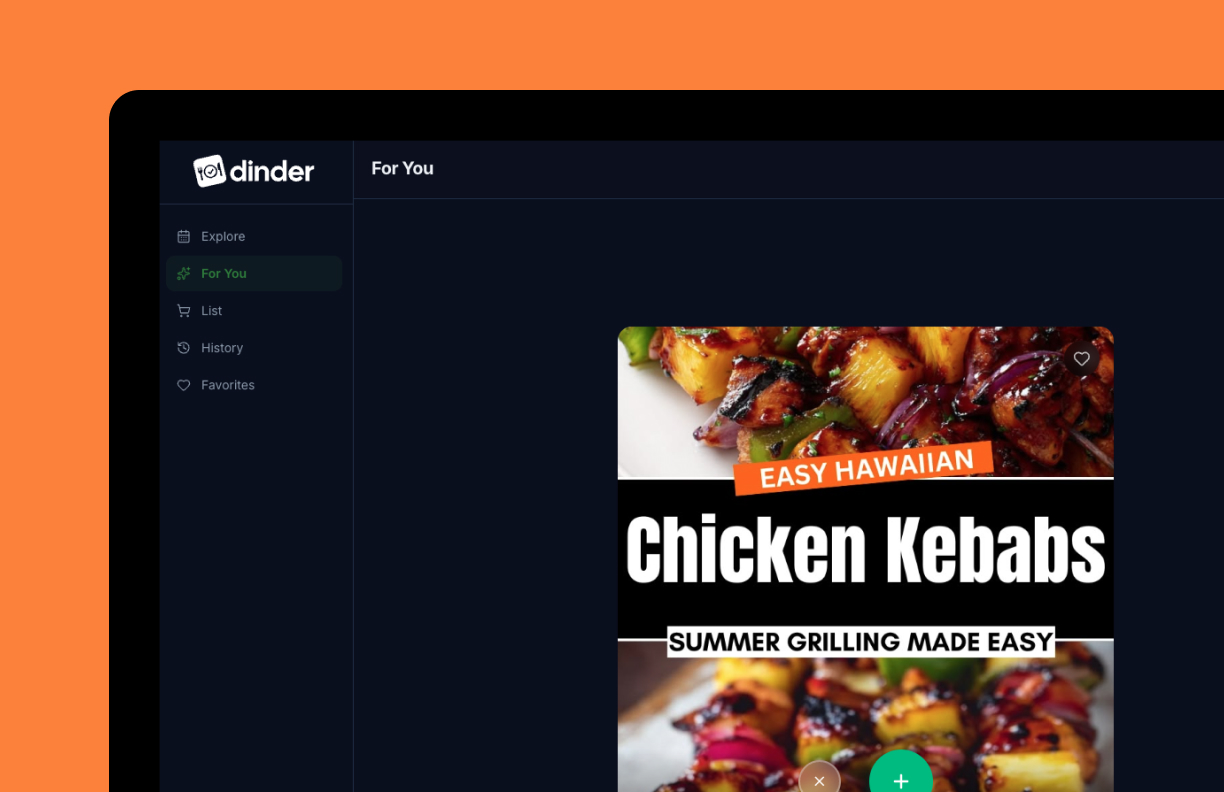
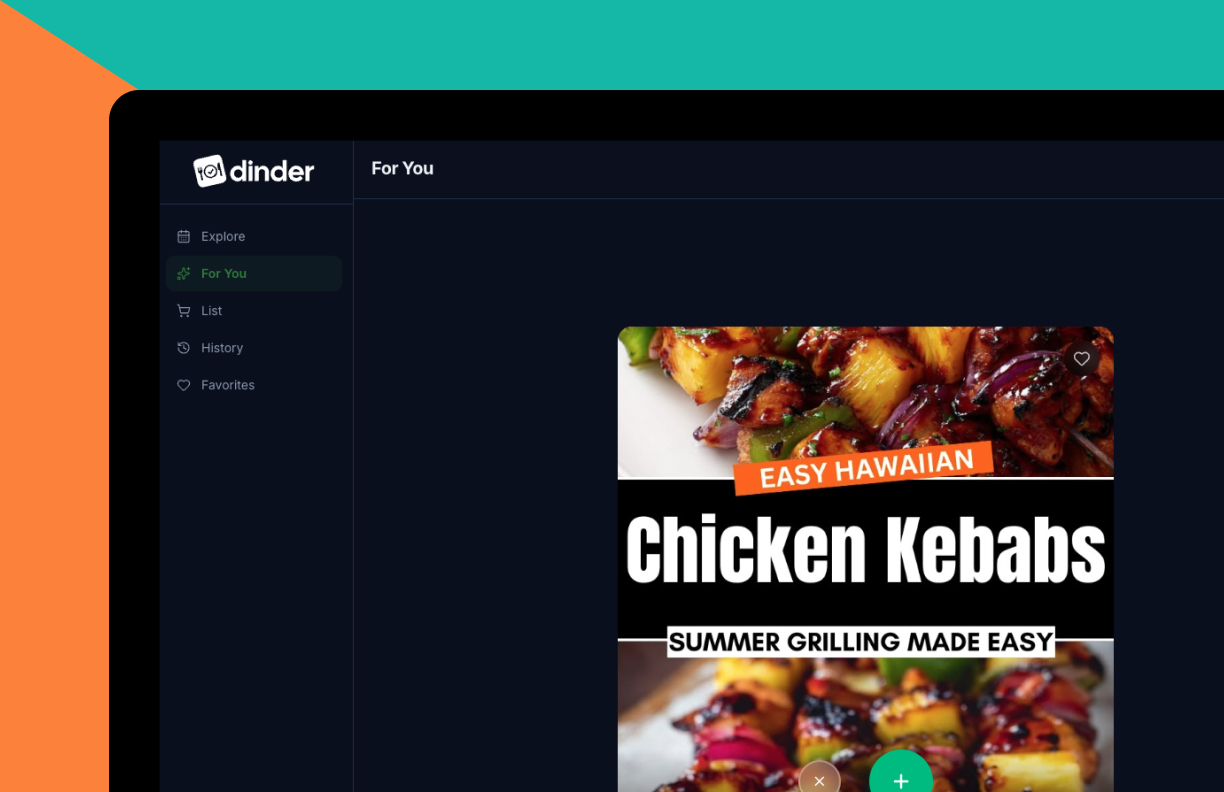
Rebuild AI-Ready Backlog case study to match High Risk Queue structure
Replaces the old Understand/Simplify/Align/Validate layout with the
collapsible Strategy/Research/Design/Outcome pattern used elsewhere.

Changed region(s): [[0.0, 0.0, 1.0, 0.1212]]

diff --git a/ai-ready-backlog.html b/ai-ready-backlog.html
@@ -33,7 +33,7 @@
 	<main>
 		<section class="hero">
 		<figure>
-			<img alt="Log In Issues" src="./img/hero/ai-ready.jpg"/>
+			<img alt="AI-Ready Backlog" src="./img/hero/ai-ready.jpg"/>
 		</figure>
 		<div class="bluf">
 			<h1>AI-Ready Backlog</h1>
@@ -49,122 +49,128 @@
 				</dl>
 			</div>
 		</div>
-	</section>
+		</section>
 
-	<section class="cases halfPad_noTop">
-	<div>
-		<h4>The Challenge</h4>
-		<p>I was serving as Product Owner, Scrum Master, and UX Lead on a modular frontend migration&hellip; replacing Ember with React while keeping the Rails backend intact&hellip; and the 3-point story limit we&rsquo;d adopted to improve velocity was starting to feel like the wrong constraint entirely. Not because stories are hard to write&hellip; but because the team was moving toward AI-assisted development, and I started to question whether traditional stories were even the right unit of work anymore.</p>
-		<p>The industry was shifting. I decided to shift with it.</p>
-		<h4>Role</h4>
-		<p>As Product Owner, I was responsible for the backlog and delivery structure across multiple modules. I took it upon myself to research where AI-first product teams were heading&hellip; and redesign how we documented product intent.</p>
-	</div>
-	</section>
+		<section class="case-challenge">
+			<h3>The Challenge</h3>
+			<p>As Director of Product &amp; UX, I was responsible for the backlog and delivery structure across multiple modules. The 3-point story limit we&rsquo;d adopted to improve velocity was starting to feel like the wrong constraint entirely. Not because stories are hard to write, but because the team was moving toward AI-assisted development, and I started to question whether traditional stories were even the right unit of work anymore.</p>
+		</section>
 
-	<a href="#" class="top_fab">
-	  <i class="material-icons">keyboard_arrow_up</i>
-	</a>
+			<a href="#" class="top_fab">
+			  <i class="material-icons">keyboard_arrow_up</i>
+			</a>
 
-	<section class="primary eighthPad">
-		<h2 class="ccicon"><i>Un</i> Understand</h2>
-	</section>
+		<section class="case-body">
 
-	<section class="white cases halfPad">
-	<div>
-		<h4>The Problem with Stories</h4>
-		<p>User stories are written for human developers&hellip; and that&rsquo;s exactly the problem. The format is built around intent and narrative, not system context. When a feature got too complex, the answer was always the same, break it into smaller stories. That constraint was supposed to improve velocity. In practice, it was just moving the complexity around.</p>
-		<p>AI doesn&rsquo;t need narrative framing. It needs boundaries, rules, constraints, dependencies, and edge cases. Feed it a backlog of stories and you get noise. Feed it structured context and you get something it can actually work with.</p>
-		<h4>Getting Ahead of It</h4>
-		<p>I researched what high-performing AI teams were doing instead. The pattern was consistent&hellip; outcome-driven development, capability-based backlogs, and product briefs over story queues. The teams shipping the fastest weren&rsquo;t writing more stories&hellip; they were writing better context.</p>
-	</div>
-	</section>
+			<article class="collapsible collapsible-strategy is-expanded">
+				<button type="button" class="collapsible-toggle" aria-expanded="true" aria-controls="panel-strategy" id="tab-strategy">
+					<span>Strategy</span>
+					<i class="material-icons collapsible-chevron" aria-hidden="true">chevron_right</i>
+				</button>
+				<div id="panel-strategy" role="region" aria-labelledby="tab-strategy">
+					<div class="panel-text">
+					<h3>The Wrong Constraint</h3>
+					<p>Nobody asked me to fix this. I just saw it coming and decided to get ahead of it.</p>
+					</div>
 
-	<section class="primary eighthPad">
-		<h2 class="ccicon"><i>Si</i> Simplify</h2>
-	</section>
+					<div class="panel-text">
+					<h3>Two Problems, One Solution</h3>
+					<p>The backlog wasn&rsquo;t the only gap I was looking at. Captivated had a documentation problem too. Readme files were sparse, code comments were inconsistent, and onboarding new developers meant a lot of tribal knowledge transfer that shouldn&rsquo;t have been necessary. I didn&rsquo;t set out to solve both problems at once, but the more I thought about what good AI-ready documentation looked like, the more I realized the same structured format could feed both. A Capability Brief written well enough for an AI coding tool to build from is also written well enough for an AI to generate readme files and code comments from. One document, two problems addressed.</p>
+					</div>
 
-	<section class="reversed cases halfPad">
-	<div>
-		<h4>The Capability Brief</h4>
-		<p>That&rsquo;s when I designed the Capability Brief. Instead of asking &ldquo;what stories do we need?&rdquo; I started asking &ldquo;what does this part of the system need to be responsible for?&rdquo; That reframe changed everything.</p>
-		<p>Each brief covers a single system capability and follows a consistent structure:</p>
-			<ul>
-				<li>Problem &mdash; what&rsquo;s broken or missing, and why it matters</li>
-				<li>Outcome &mdash; what the system must be able to do</li>
-				<li>Users &mdash; who&rsquo;s affected and how</li>
-				<li>Functional Rules &mdash; explicit behaviors the system must honor</li>
-				<li>Edge Cases &mdash; failure states, race conditions, unexpected inputs</li>
-				<li>Constraints &mdash; what must not break, what&rsquo;s out of scope</li>
-				<li>AI Implementation Context &mdash; architecture, dependencies, data model, key rules</li>
-				<li>Delivery Mapping &mdash; epics and vertical slices</li>
-			</ul>
-	</div>
-		<figure>
-			<img alt="The hero element open" src="./img/cases/aiready/capability-brief.png" class="caseImg slide-up"/>
-			<figcaption>Capability Briefs are intended for AI, not humans</figcaption>
-		</figure>
-	<div>
-		<h4>AI Implementation Context</h4>
-		<p>The AI Implementation Context section is what makes this format different. It explicitly tells developers and AI coding tools what the system depends on, what rules are non-negotiable, and how the data model should be structured. In our case, that meant documenting the React frontend, Ant Design component library, and Rails backend as fixed constraints&hellip; so nothing got designed or generated in a vacuum. That section alone eliminated entire categories of questions before they were ever asked.</p>
-	</div>
-	</section>
+					<div class="panel-text">
+					<h3>Where These Documents Live</h3>
+					<p>I built the Capability Briefs in Confluence because that&rsquo;s where the team already worked. But even while writing them, I could see that wasn&rsquo;t the right long-term home. Documentation that developers need during a build belongs close to the code, not in a wiki they have to context-switch to reach. The right place for a Capability Brief is the repository itself, alongside the code it describes. Getting there was a later problem, but the brief format was designed with that destination in mind.</p>
+					</div>
 
-	<section class="primary eighthPad">
-		<h2 class="ccicon"><i>Al</i> Align</h2>
-	</section>
+					<div class="panel-text">
+					<h3>The Bigger Shift</h3>
+					<p>The format was also a strategic bet on where the industry was heading. AI-assisted development was moving fast. Teams that figured out how to give AI structured context were going to outpace teams still handing it a backlog of disconnected stories. I wanted Captivated to be ahead of that curve, not catching up to it.</p>
+					</div>
+				</div>
+			</article>
 
-	<section class="cases halfPad">
-	<div>
-		<h4>A New Way of Working</h4>
-		<p>I&rsquo;ll admit the format took some getting used to. But once the team was working from briefs instead of a backlog of 3-point stories, the difference was noticeable. Developer handoffs were smoother. Fewer questions came back during implementation. Edge cases that used to surface mid-sprint were already being identified.</p>
-		<h4>AI Writes the First Pass</h4>
-		<p>The bigger shift was in how the team approached AI-assisted development. With a brief in hand, the understanding became: AI writes the first pass, humans refine it. That&rsquo;s a much healthier dynamic than asking AI to interpret a list of disconnected stories.</p>
-	</div>
-	</section>
-	<section class="primary eighthPad">
-		<h2 class="ccicon"><i>Va</i> Validate</h2>
-	</section>
+			<article class="collapsible collapsible-research is-expanded">
+				<button type="button" class="collapsible-toggle" aria-expanded="true" aria-controls="panel-research" id="tab-research">
+					<span>Research</span>
+					<i class="material-icons collapsible-chevron" aria-hidden="true">chevron_right</i>
+				</button>
+				<div id="panel-research" role="region" aria-labelledby="tab-research">
+					<div class="panel-text">
+					<h3>Finding the Alternatives</h3>
+					<p>Before designing anything, I surveyed the landscape. I took the question to ChatGPT and the broader product community to understand how high-performing AI teams were approaching documentation. The pattern was consistent, outcome-driven development, capability-based backlogs, and product briefs over story queues. The teams shipping fastest weren&rsquo;t writing more stories. They were writing better context.</p>
+					<p>That research didn&rsquo;t produce a deliverable. It produced a direction.</p>
+					</div>
+				</div>
+			</article>
 
-	<section class="white cases halfPad">
-	<div>
-		<h4>The Results</h4>
-		<p>The first module, Authentication, produced 6 Capability Briefs covering</p>
-			<ul>
-				<li>Identifier-First Flow</li>
-				<li>Authorization</li>
-				<li>Session Management</li>
-				<li>SSO</li>
-				<li>MFA</li>
-				<li>Multi-Org Switching</li>
-				<li>Quick User Switching</li>
-			</ul>
-		<p>A traditional story approach for the same scope would have produced 150+ tickets, with far less coverage of edge cases, compliance constraints, and system dependencies.</p>
-	</div>
-	</section>
+			<article class="collapsible collapsible-design is-expanded">
+				<button type="button" class="collapsible-toggle" aria-expanded="true" aria-controls="panel-design" id="tab-design">
+					<span>Design</span>
+					<i class="material-icons collapsible-chevron" aria-hidden="true">chevron_right</i>
+				</button>
+				<div id="panel-design" role="region" aria-labelledby="tab-design">
+					<div class="panel-text">
+					<h3>A Different Kind of Design Problem</h3>
+					<p>The Capability Brief is a designed artifact, it just doesn&rsquo;t have a UI. The design decisions were about information architecture, document structure, and audience. The primary reader wasn&rsquo;t a human developer, it was an AI coding tool. That single constraint changed everything about how the format was built.</p>
+					<p>Writing for AI means writing without ambiguity. No implied context, no assumed knowledge, no narrative shortcuts. Every rule has to be stated explicitly. Every edge case has to be named. Every constraint has to be declared, including what&rsquo;s out of scope, because AI builds confidently in whatever direction you point it and a missing boundary is an invitation to go somewhere you didn&rsquo;t intend.</p>
+					</div>
 
-	<section class="primary eighthPad">
-		<h2>Takeaways&hellip;</h2>
-	</section>
-	
-	<section class="cases halfPad">
-	<div>
-		<p>The hard decisions got made upfront&hellip; not mid-sprint when they&rsquo;re expensive. That&rsquo;s the whole point.</p>
-		<p>I&rsquo;m convinced this is where product documentation is heading. Like everyone else, I&rsquo;m learning as I go.</p>
-	</div>
-	</section>
+					<div class="panel-text">
+					<h3>The Structure</h3>
+					<p>Each Capability Brief follows eight sections, in this order for a reason:</p>
+					<ul>
+						<li>Problem &mdash; what&rsquo;s broken or missing, and why it matters</li>
+						<li>Outcome &mdash; what the system must be able to do</li>
+						<li>Users &mdash; who&rsquo;s affected and how</li>
+						<li>Functional Rules &mdash; explicit behaviors the system must honor</li>
+						<li>Edge Cases &mdash; failure states, race conditions, unexpected inputs</li>
+						<li>Constraints &mdash; what must not break, what&rsquo;s explicitly out of scope</li>
+						<li>AI Implementation Context &mdash; architecture, dependencies, data model, key rules</li>
+						<li>Delivery Mapping &mdash; epics and vertical slices</li>
+					</ul>
+					<p>The AI Implementation Context section is what makes this format different from anything that came before it. It explicitly tells developers and AI coding tools what the system depends on, what rules are non-negotiable, and how the data model should be structured. In Captivated&rsquo;s case, that meant documenting the React frontend, Ant Design component library, and Rails backend as fixed constraints, so nothing got designed or generated in a vacuum. That section alone eliminated entire categories of questions before they were ever asked.</p>
+					</div>
 
-	<section class="reversed centered eighthPad">
-		<h3 class="center">More Case Studies</h3>
-		<article class="flexTrio">
+					<figure>
+						<img alt="A Capability Brief" src="./img/cases/aiready/capability-brief.png" class="caseImg slide-up"/>
+						<figcaption>Capability Briefs are written for AI, not humans</figcaption>
+					</figure>
+				</div>
+			</article>
+
+			<article class="collapsible collapsible-outcome is-expanded">
+				<button type="button" class="collapsible-toggle" aria-expanded="true" aria-controls="panel-outcome" id="tab-outcome">
+					<span>Outcome</span>
+					<i class="material-icons collapsible-chevron" aria-hidden="true">chevron_right</i>
+				</button>
+				<div id="panel-outcome" role="region" aria-labelledby="tab-outcome">
+					<div class="panel-text">
+					<h3>A New Way of Working</h3>
+					<p>The format took some getting used to. But once the team was working from briefs instead of a backlog of 3-point stories, the difference was noticeable. Developer handoffs were smoother. Fewer questions came back during implementation. Edge cases that used to surface mid-sprint were already being identified before a line of code was written.</p>
+					<p>The bigger shift was cultural. With a brief in hand, the dynamic became: AI writes the first pass, humans refine it. That&rsquo;s a healthier model than asking AI to interpret a list of disconnected stories and hope it fills in the gaps correctly.</p>
+					</div>
+
+					<div class="panel-text">
+					<h3>The Numbers</h3>
+					<p>The first module, Authentication, produced 6 Capability Briefs covering identifier-first flow, authorization, session management, SSO, MFA, multi-org switching, and quick user switching. A traditional story approach for the same scope would have produced 150+ tickets, with far less coverage of edge cases, compliance constraints, and system dependencies.</p>
+					<p>The hard decisions got made upfront, not mid-sprint when they&rsquo;re expensive. That&rsquo;s the whole point. Those 6 Capability Briefs didn&rsquo;t just prove the format. They became the foundation for the next project: Beyond the Login.</p>
+					</div>
+				</div>
+			</article>
+
+		</section>
+		<section class="reversed centered eighthPad">
+			<h3 class="center">More Case Studies</h3>
+			<article class="flexTrio">
 		</article>
 	</section>
 
-		</main>
-
-		<footer>
-			<a href="https://www.linkedin.com/in/jarrodmurray/" title="LinkedIn" target="_blank"><svg class="linkedin" viewBox="0 0 448 512"><path d="M416 32H31.9C14.3 32 0 46.5 0 64.3v383.4C0 465.5 14.3 480 31.9 480H416c17.6 0 32-14.5 32-32.3V64.3c0-17.8-14.4-32.3-32-32.3zM135.4 416H69V202.2h66.5V416zm-33.2-243c-21.3 0-38.5-17.3-38.5-38.5S80.9 96 102.2 96c21.2 0 38.5 17.3 38.5 38.5 0 21.3-17.2 38.5-38.5 38.5zm282.1 243h-66.4V312c0-24.8-.5-56.7-34.5-56.7-34.6 0-39.9 27-39.9 54.9V416h-66.4V202.2h63.7v29.2h.9c8.9-16.8 30.6-34.5 62.9-34.5 67.2 0 79.7 44.3 79.7 101.9V416z"/></svg></a>
-			<a href="./resume.html" title="Résumé" target="_blank"><svg class="adobe" viewBox="0 0 384 512"><path d="M184 208c0-4.406-3.594-8-8-8S168 203.6 168 208c0 2.062 .2969 23.31 9.141 50.25C179.1 249.6 184 226.2 184 208zM256 0v128h128L256 0zM80 422.4c0 9.656 10.47 11.97 14.38 6.375C99.27 421.9 108.8 408 120.1 388.6c-14.22 7.969-27.25 17.31-38.02 28.31C80.75 418.3 80 420.3 80 422.4zM224 128L224 0H48C21.49 0 0 21.49 0 48v416C0 490.5 21.49 512 48 512h288c26.51 0 48-21.49 48-48V160h-127.1C238.3 160 224 145.7 224 128zM292 312c24.26 0 44 19.74 44 44c0 24.67-18.94 44-43.13 44c-5.994 0-11.81-.9531-17.22-2.805c-20.06-6.758-38.38-15.96-54.55-27.39c-23.88 5.109-45.46 11.52-64.31 19.1c-14.43 26.31-27.63 46.15-36.37 58.41C112.1 457.8 100.8 464 87.94 464C65.92 464 48 446.1 48 424.1c0-11.92 3.74-21.82 11.18-29.51c16.18-16.52 37.37-30.99 63.02-43.05c11.75-22.83 21.94-46.04 30.33-69.14C136.2 242.4 136 208.4 136 208c0-22.05 17.95-40 40-40c22.06 0 40 17.95 40 40c0 24.1-7.227 55.75-8.938 62.63c-1.006 3.273-2.035 6.516-3.082 9.723c7.83 14.46 17.7 27.21 29.44 38.05C263.1 313.4 284.3 312.1 287.6 312H292zM156.5 354.6c17.98-6.5 36.13-11.44 52.92-15.19c-12.42-12.06-22.17-25.12-29.8-38.16C172.3 320.6 164.4 338.5 156.5 354.6zM292.9 368C299 368 304 363 304 356.9C304 349.4 298.6 344 292 344H288c-.3438 .0313-16.83 .9687-40.95 4.75c11.27 7 24.12 13.19 38.84 18.12C288 367.6 290.5 368 292.9 368z"/></svg></a>
-		</footer>
+	</main>
+<footer>
+	<a href="https://www.linkedin.com/in/jarrodmurray/" title="LinkedIn" target="_blank"><svg class="linkedin" viewBox="0 0 448 512"><path d="M416 32H31.9C14.3 32 0 46.5 0 64.3v383.4C0 465.5 14.3 480 31.9 480H416c17.6 0 32-14.5 32-32.3V64.3c0-17.8-14.4-32.3-32-32.3zM135.4 416H69V202.2h66.5V416zm-33.2-243c-21.3 0-38.5-17.3-38.5-38.5S80.9 96 102.2 96c21.2 0 38.5 17.3 38.5 38.5 0 21.3-17.2 38.5-38.5 38.5zm282.1 243h-66.4V312c0-24.8-.5-56.7-34.5-56.7-34.6 0-39.9 27-39.9 54.9V416h-66.4V202.2h63.7v29.2h.9c8.9-16.8 30.6-34.5 62.9-34.5 67.2 0 79.7 44.3 79.7 101.9V416z"/></svg></a>
+	<a href="./resume.html" title="Résumé" target="_blank"><svg class="adobe" viewBox="0 0 384 512"><path d="M184 208c0-4.406-3.594-8-8-8S168 203.6 168 208c0 2.062 .2969 23.31 9.141 50.25C179.1 249.6 184 226.2 184 208zM256 0v128h128L256 0zM80 422.4c0 9.656 10.47 11.97 14.38 6.375C99.27 421.9 108.8 408 120.1 388.6c-14.22 7.969-27.25 17.31-38.02 28.31C80.75 418.3 80 420.3 80 422.4zM224 128L224 0H48C21.49 0 0 21.49 0 48v416C0 490.5 21.49 512 48 512h288c26.51 0 48-21.49 48-48V160h-127.1C238.3 160 224 145.7 224 128zM292 312c24.26 0 44 19.74 44 44c0 24.67-18.94 44-43.13 44c-5.994 0-11.81-.9531-17.22-2.805c-20.06-6.758-38.38-15.96-54.55-27.39c-23.88 5.109-45.46 11.52-64.31 19.1c-14.43 26.31-27.63 46.15-36.37 58.41C112.1 457.8 100.8 464 87.94 464C65.92 464 48 446.1 48 424.1c0-11.92 3.74-21.82 11.18-29.51c16.18-16.52 37.37-30.99 63.02-43.05c11.75-22.83 21.94-46.04 30.33-69.14C136.2 242.4 136 208.4 136 208c0-22.05 17.95-40 40-40c22.06 0 40 17.95 40 40c0 24.1-7.227 55.75-8.938 62.63c-1.006 3.273-2.035 6.516-3.082 9.723c7.83 14.46 17.7 27.21 29.44 38.05C263.1 313.4 284.3 312.1 287.6 312H292zM156.5 354.6c17.98-6.5 36.13-11.44 52.92-15.19c-12.42-12.06-22.17-25.12-29.8-38.16C172.3 320.6 164.4 338.5 156.5 354.6zM292.9 368C299 368 304 363 304 356.9C304 349.4 298.6 344 292 344H288c-.3438 .0313-16.83 .9687-40.95 4.75c11.27 7 24.12 13.19 38.84 18.12C288 367.6 290.5 368 292.9 368z"/></svg></a>
+</footer>
 
 	<script src="js/scripts.js" defer></script>
 	<script defer>
@@ -172,5 +178,6 @@
 		renderRelatedCaseStudies('ai-ready-backlog');
 	});
 	</script>
+
 </body>
 </html>
